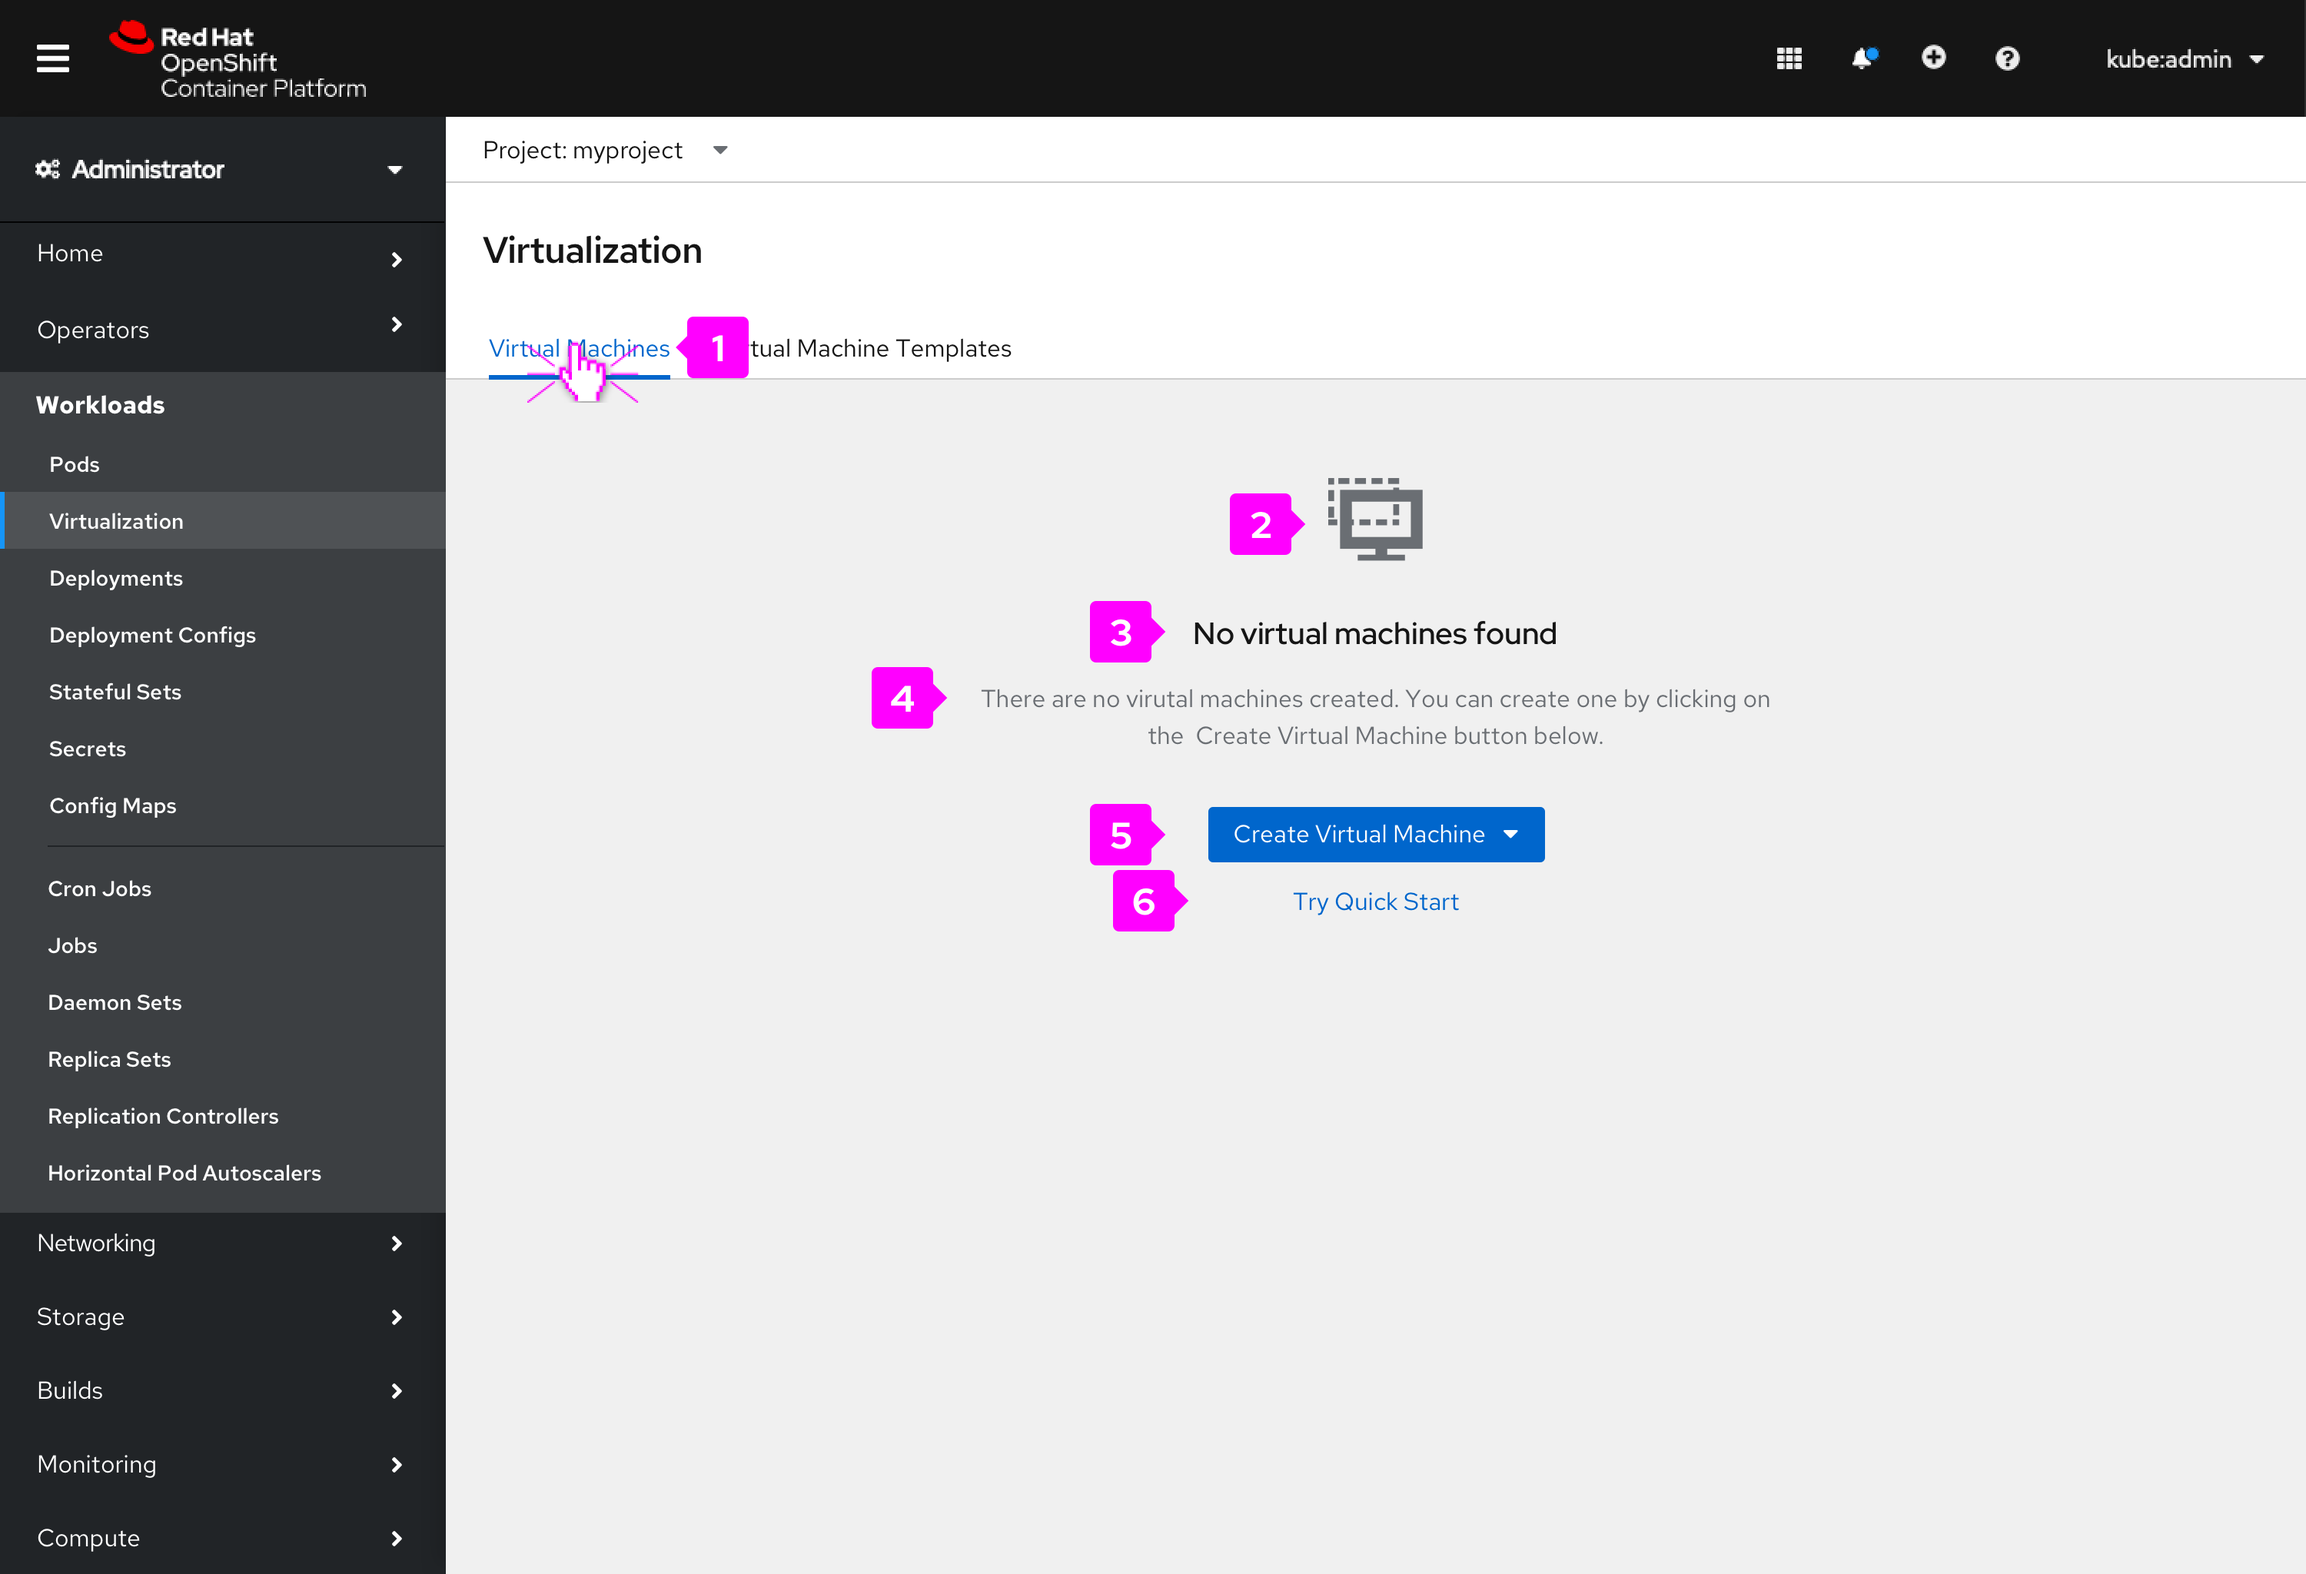
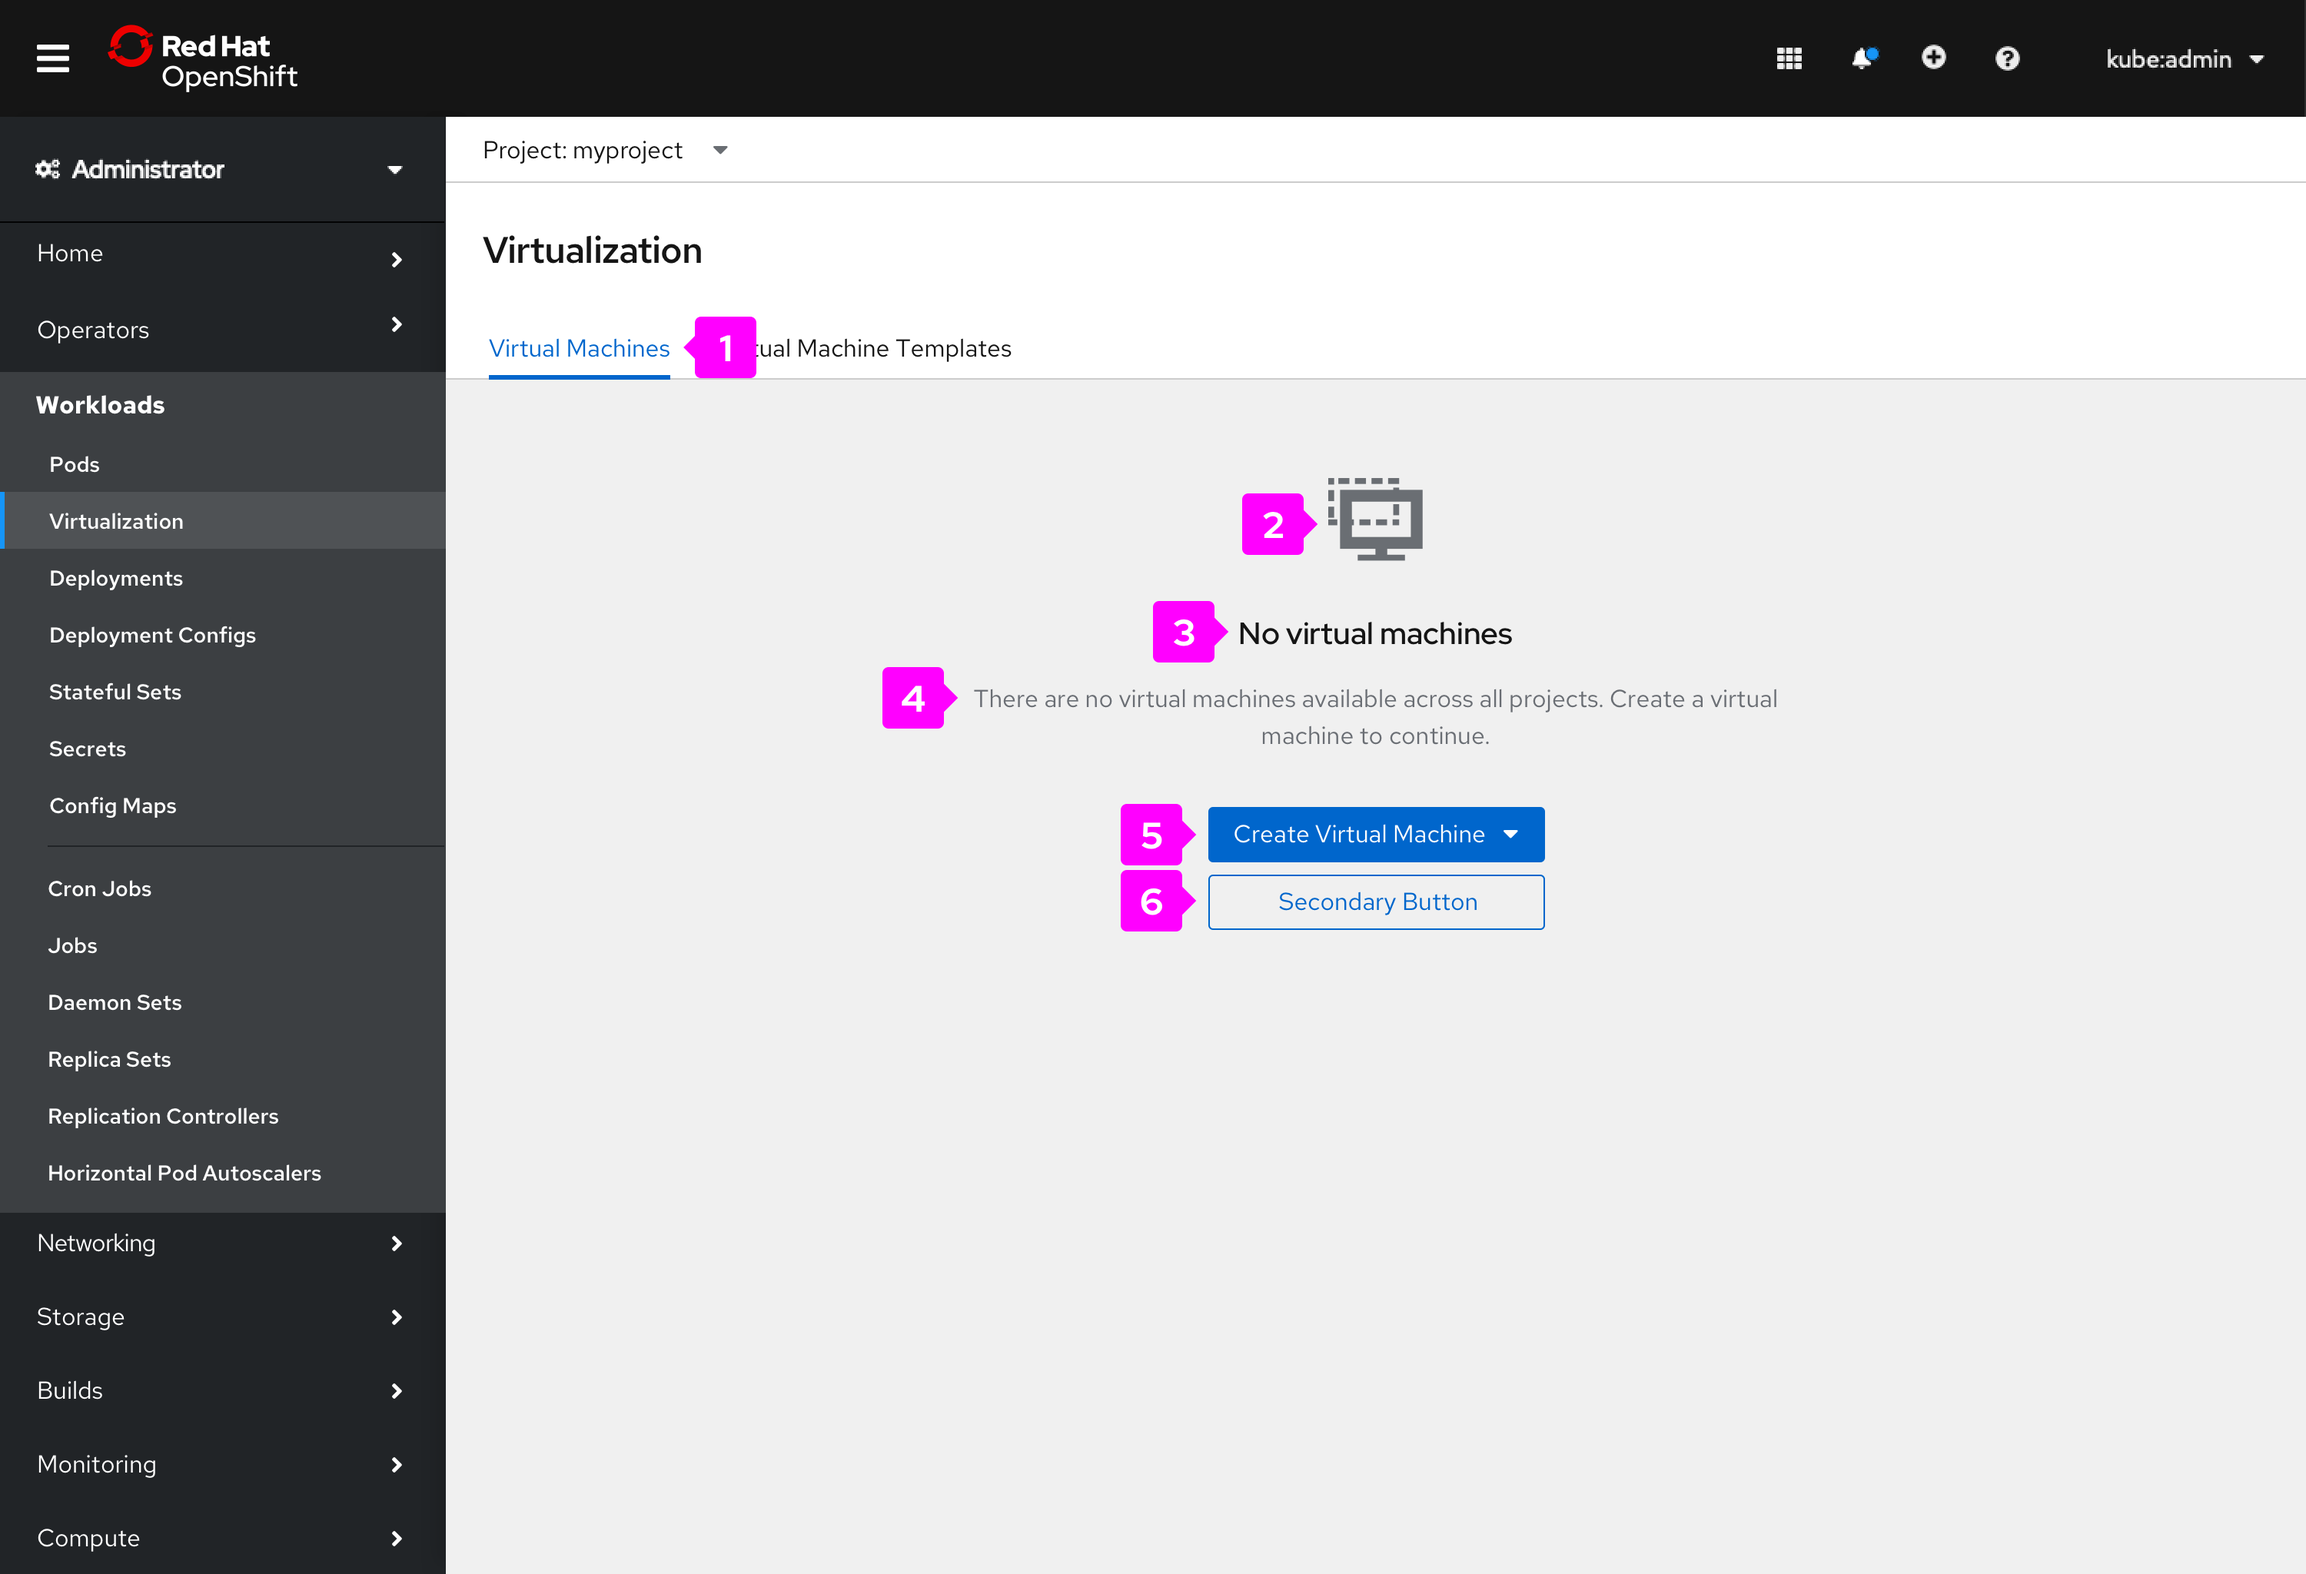
Secondary button adjustments
I changed the secondary call to action link button to our default secondary button. Using a secondary button with an icon for the Quick starts secondary button.

diff --git a/designs/virtualization/4.6/empty-states/empty-states.md b/designs/virtualization/4.6/empty-states/empty-states.md
@@ -56,6 +56,6 @@ The goals of this task:
 Exploring various ways to push Quick Starts in the empty states.
 
 ### Screen 1
-![Virtual machine empty state screen 2](img/virtual-machines-empty-state-v5.png)
+![Virtual machine empty state screen 2](img/virtual-machines-empty-state-v6.png)
 
 
